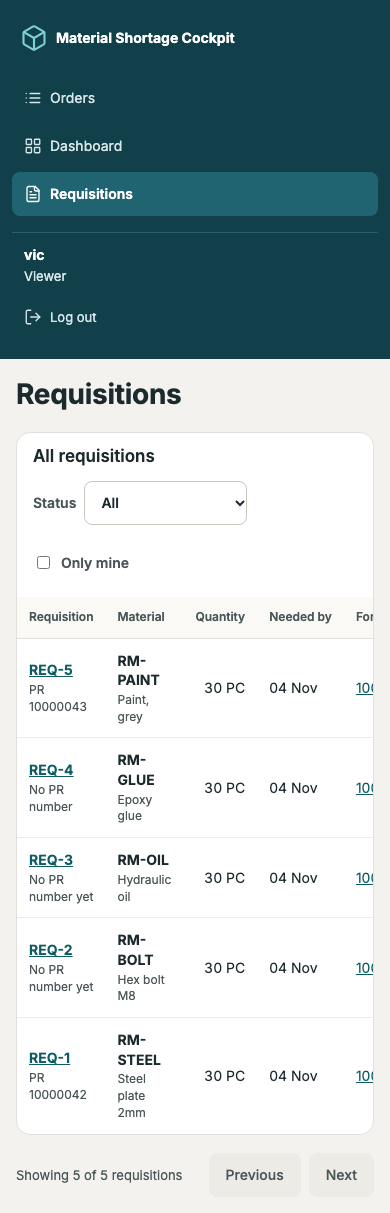
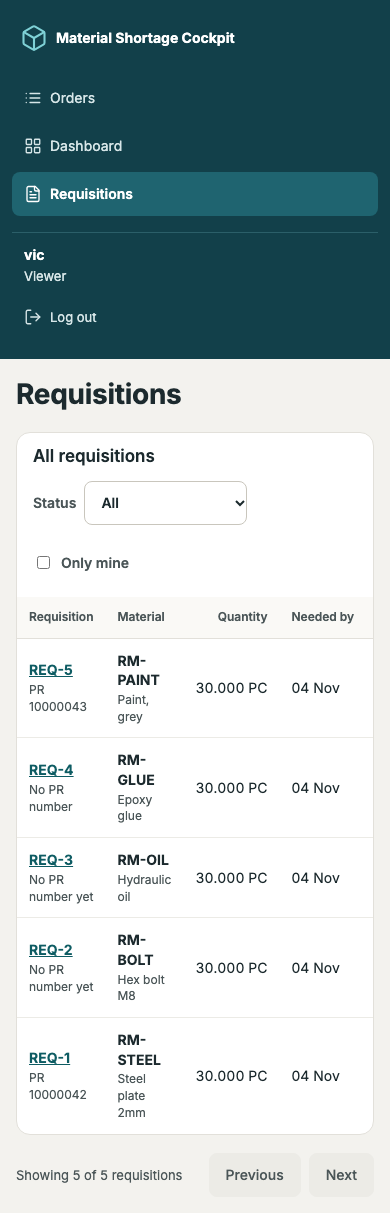
fix: review round 1 on the requisition pages (#29)
List quantity shows the as-sent form (6.000 PC), one pr_text rule, CSS block moved.

diff --git a/cockpit/templates/cockpit/requisitions/list.html b/cockpit/templates/cockpit/requisitions/list.html
@@ -34,9 +34,9 @@
         <tbody>
           {% for r in page_obj %}
             <tr>
-              <td><a href="{% url 'cockpit:requisition_detail' r.pk %}" class="cell-main">{{ r.reference }}</a><span class="cell-sub">{% if r.pr_number %}PR {{ r.pr_number }}{% elif r.status == "rejected" %}No PR number{% else %}No PR number yet{% endif %}</span></td>
+              <td><a href="{% url 'cockpit:requisition_detail' r.pk %}" class="cell-main">{{ r.reference }}</a><span class="cell-sub">{{ r.pr_text }}</span></td>
               <td><span class="cell-main">{{ r.material }}</span>{% if r.description %}<span class="cell-sub">{{ r.description }}</span>{% endif %}</td>
-              <td class="num">{{ r.quantity_sent|quantity:r.unit_sent }}</td>
+              <td class="num">{{ r.quantity_sent|quantity_sent:r.unit_sent }}</td>
               <td>{{ r.delivery_date|date_short }}</td>
               <td><a href="/orders/{{ r.order.number }}/">{{ r.order.number }}</a></td>
               <td>{{ r.created_by.get_username }}<span class="cell-sub">{{ r.created_at|datetime_short }}</span></td>

diff --git a/static/cockpit/app.css b/static/cockpit/app.css
@@ -785,7 +785,6 @@ table.data tr.is-selected td:first-child {
   margin: 0;
 }
 
-/* --- Below 900px wide (ui-spec 2.1). CSS variables cannot be used in media queries. --- */
 /* --- 4.4 / 4.5 Requisition list and detail --- */
 .toolbar-filters {
   display: flex;
@@ -854,6 +853,7 @@ details pre {
   font-size: var(--font-size-caption);
 }
 
+/* --- Below 900px wide (ui-spec 2.1). CSS variables cannot be used in media queries. --- */
 @media (max-width: 899px) {
   .app {
     grid-template-columns: 1fr;

diff --git a/cockpit/services/requisition_views.py b/cockpit/services/requisition_views.py
@@ -57,7 +57,8 @@ def list_requisitions(
 
     An unknown `status` counts as All. A page number that is not a number or is below 1 shows
     page 1, and one past the end shows the last page. Each requisition on the page gets a
-    `description` attribute: the material's description from its order's components.
+    `description` attribute (the material's description from its order's components) and a
+    `pr_text` attribute (see `pr_text`).
     """
     if status not in STATUS_FILTERS:
         status = ""
@@ -93,6 +94,7 @@ def _add_descriptions(requisitions: list[Requisition]) -> None:
     found = {(c.order_id, c.material): c.description for c in components}
     for requisition in requisitions:
         requisition.description = found.get((requisition.order_id, requisition.material), "")
+        requisition.pr_text = pr_text(requisition)
 
 
 def describe(requisition: Requisition) -> Requisition:

diff --git a/cockpit/tests/test_requisition_pages.py b/cockpit/tests/test_requisition_pages.py
@@ -76,7 +76,7 @@ def test_list_shows_the_business_fields_of_each_attempt(client_as, order, pat):
     assertContains(response, sent.reference)
     assertContains(response, "PR 10000001")
     assertContains(response, "Steel plate")
-    assertContains(response, "6 PC")
+    assertContains(response, "6.000 PC")
     assertContains(response, "04 Nov")
     assertContains(response, "1000001")
     assertContains(response, "pat")

diff --git a/cockpit/views.py b/cockpit/views.py
@@ -169,7 +169,6 @@ def requisition_list(request: HttpRequest) -> HttpResponse:
         "result": result,
         "page_obj": result.page,
         "status_filters": requisition_views.STATUS_FILTERS,
-        "pr_text": requisition_views.pr_text,
     }
     return render(request, "cockpit/requisitions/list.html", context)
 
